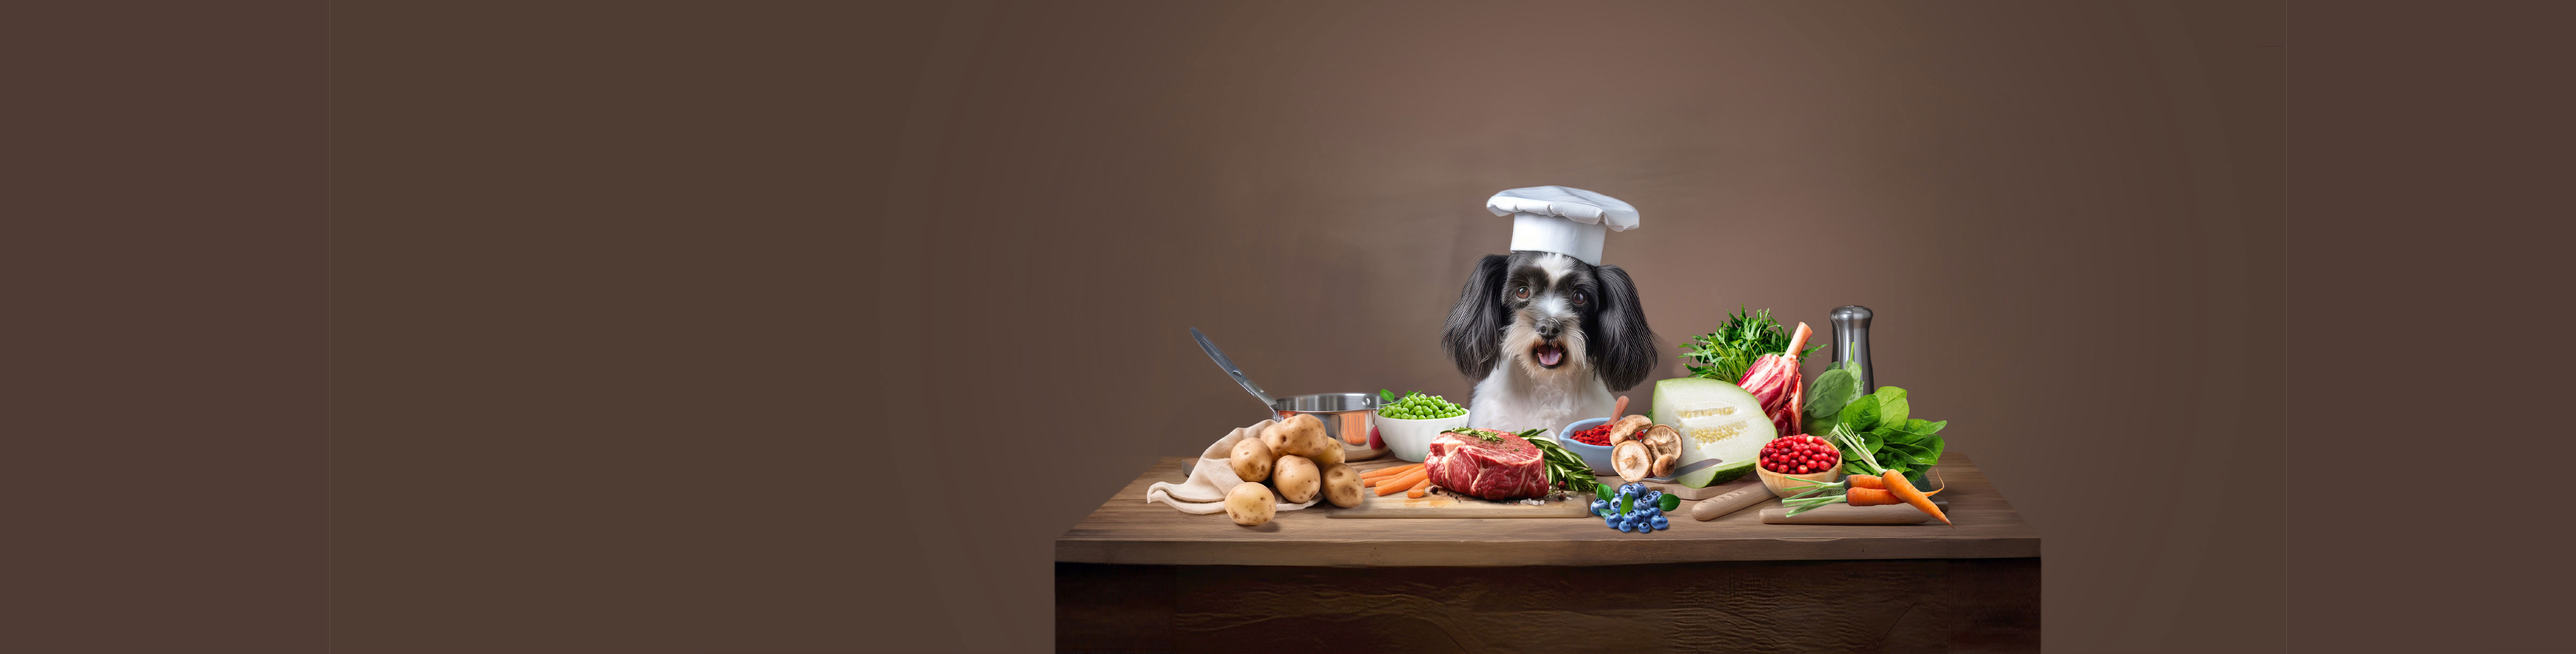
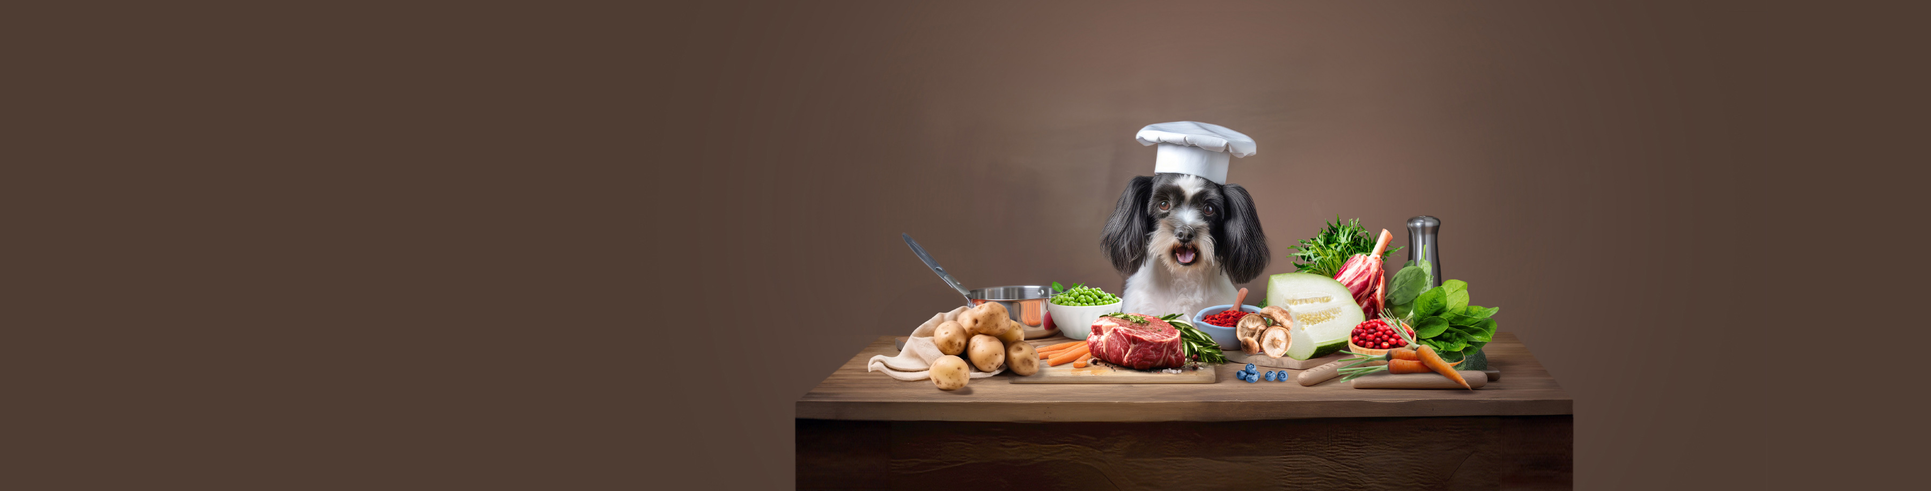
Fix recipe headline picture

Changed region(s): [[0.4044, 0.2448, 0.84, 1.0]]

diff --git a/src/app/[locale]/(main)/recipes/page.tsx b/src/app/[locale]/(main)/recipes/page.tsx
@@ -225,7 +225,7 @@ export default function RecipesPage() {
 
   return (
     <main className="overflow-x-hidden">
-      <div className="bg-[#4f3b34] bg-[url('./recipes-bg-mb.jpg')] bg-[length:100%_auto] bg-bottom bg-no-repeat py-[55px] max-lg:pb-[55%] lg:bg-[url('./recipes-bg.jpg')] lg:bg-[length:auto_100%] lg:bg-[calc(50%+60px)_center]">
+      <div className="bg-[#3c2215] bg-[url('./recipes-bg-mb.jpg')] bg-[length:100%_auto] bg-bottom bg-no-repeat py-[55px] max-lg:pb-[55%] lg:bg-[#4f3d33] lg:bg-[url('./recipes-bg.jpg')] lg:bg-[length:auto_100%] lg:bg-[calc(50%+60px)_center]">
         <Container>
           {/* <div className="py-[4vw] text-xl text-white max-lg:w-full lg:pr-0"> */}
           <div className="text-xl text-white max-lg:w-full lg:pr-0">
